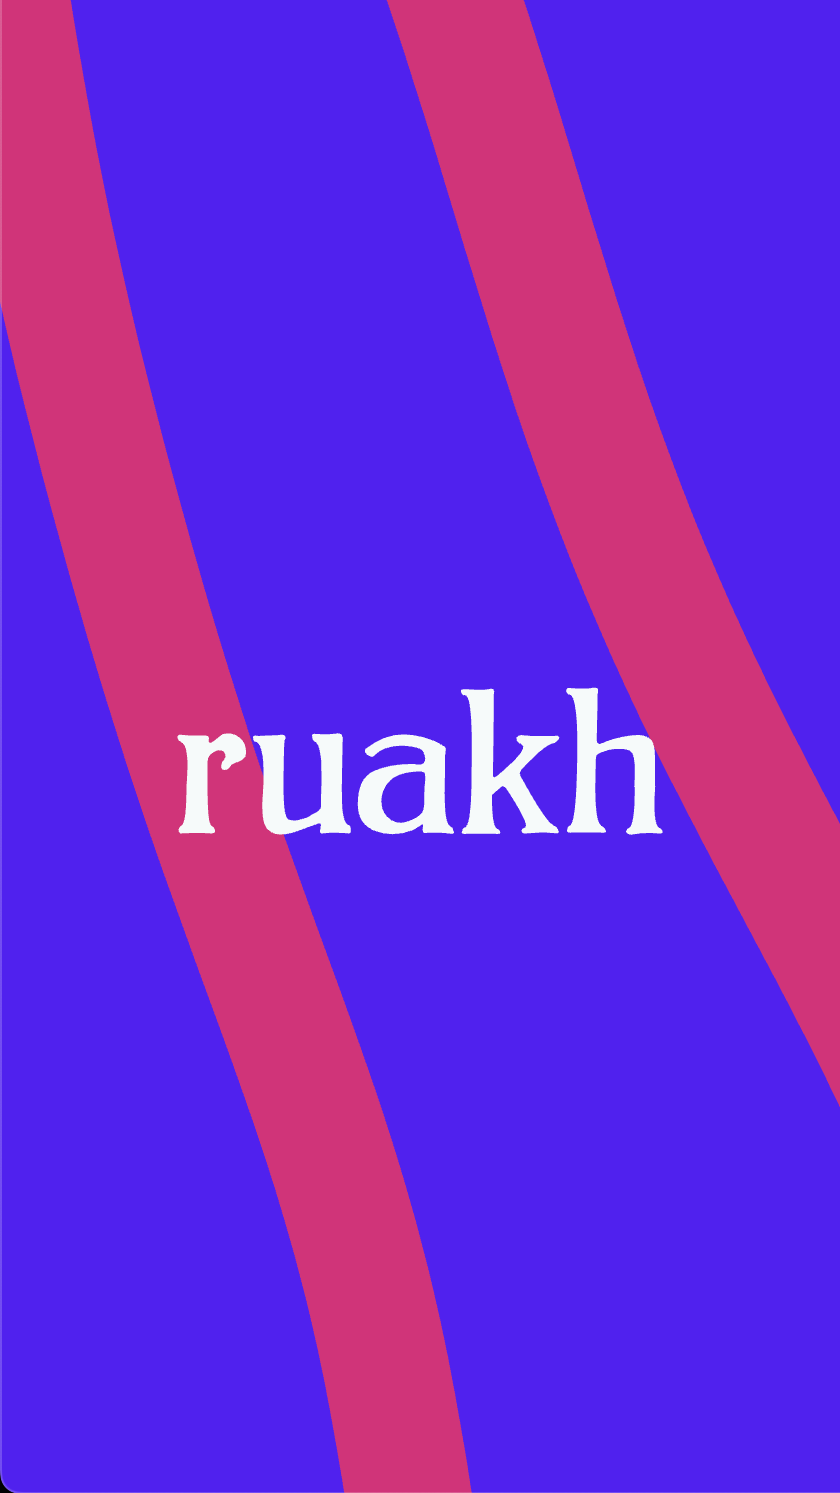
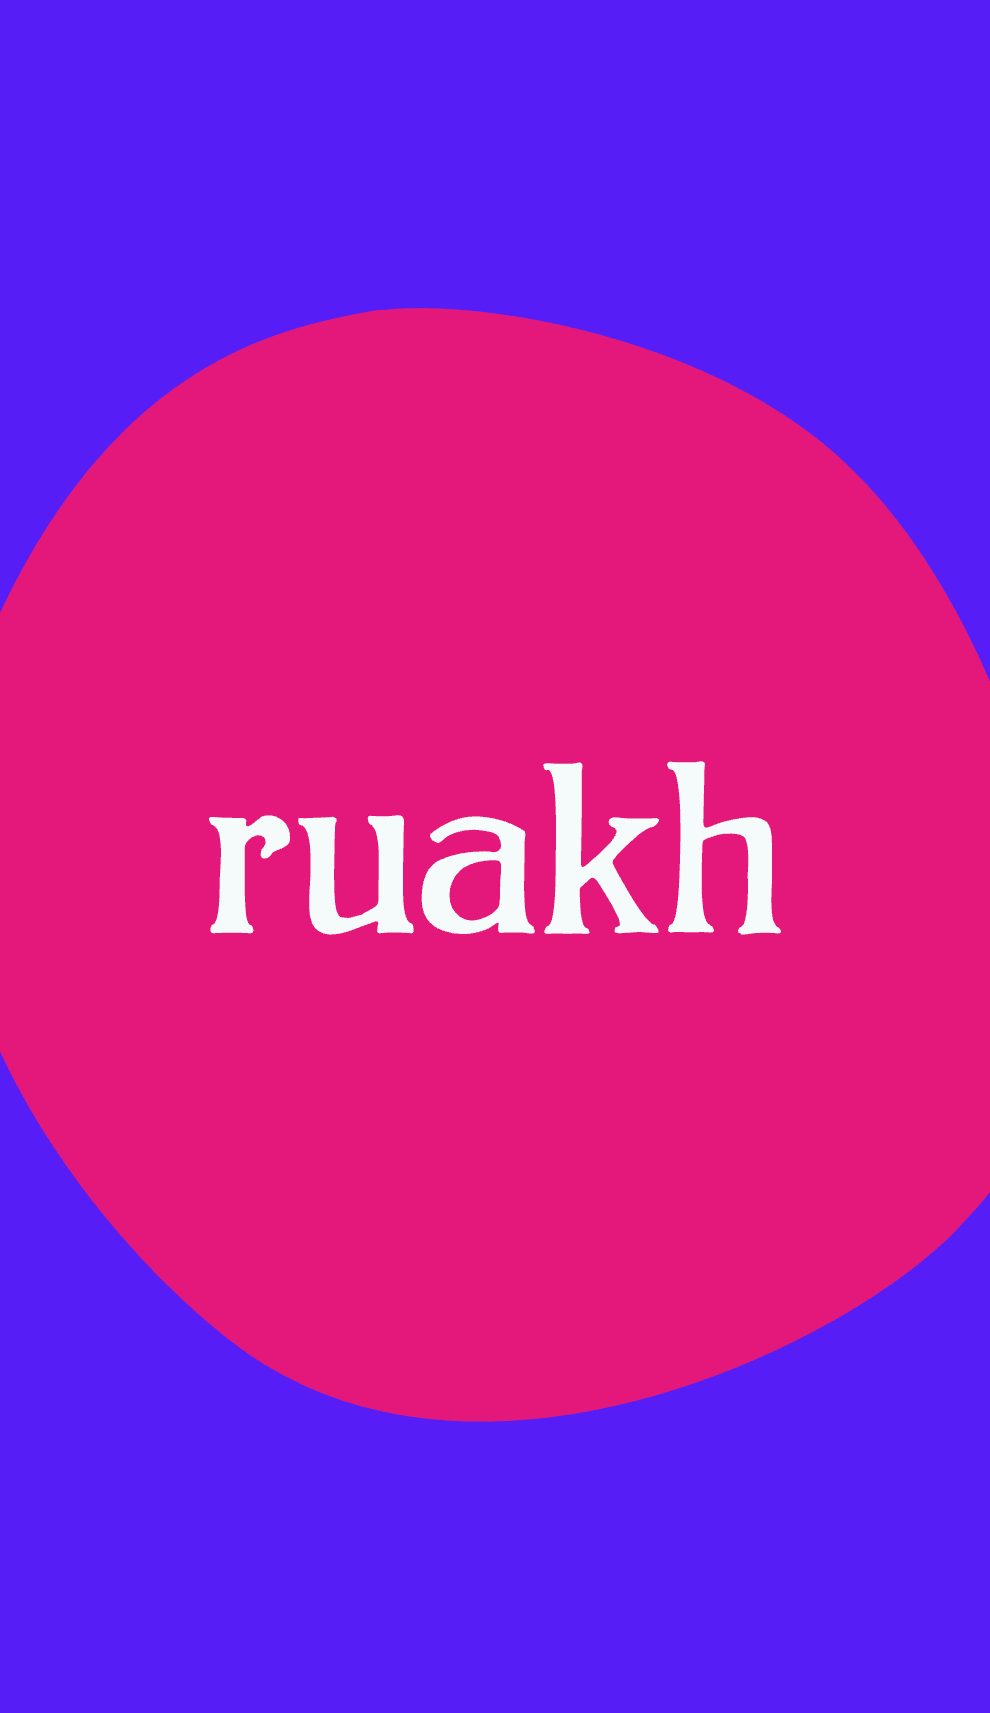
update screenshots and readme

diff --git a/README.md b/README.md
@@ -1,5 +1,7 @@
 <p align="center">
-  <img src="static/app-icons/ruakh.svg" alt="Ruakh app icon" width="96" height="96">
+  <a href="https://ruakh.jpd.nz" target="_blank" align="center">
+    <img src="static/app-icons/ruakh.svg" alt="Ruakh app icon" width="96" height="96">
+  </a>
 </p>
 
 # ruakh
@@ -11,8 +13,10 @@ reflect on. _Ruakh_ (רוּחַ) is the Hebrew word for "breath," "wind," or
 <p align="center">
   <img src="screenshots/01_intro.png" alt="intro" width="150" />
   <img src="screenshots/02_reflection.png" alt="reflection" width="150" />
-  <img src="screenshots/03_themes.png" alt="preferences - themes" width="150" />
-  <img src="screenshots/04_favorites.png" alt="preferences - favorites" width="150" />
+  <img src="screenshots/03_breathe_intro.png" alt="preferences - themes" width="150" />
+  <img src="screenshots/04_breathe.png" alt="preferences - favorites" width="150" />
+  <img src="screenshots/05_themes.png" alt="preferences - themes" width="150" />
+  <img src="screenshots/06_saved_reflections.png" alt="preferences - favorites" width="150" />
 </p>
 
 ## Principles